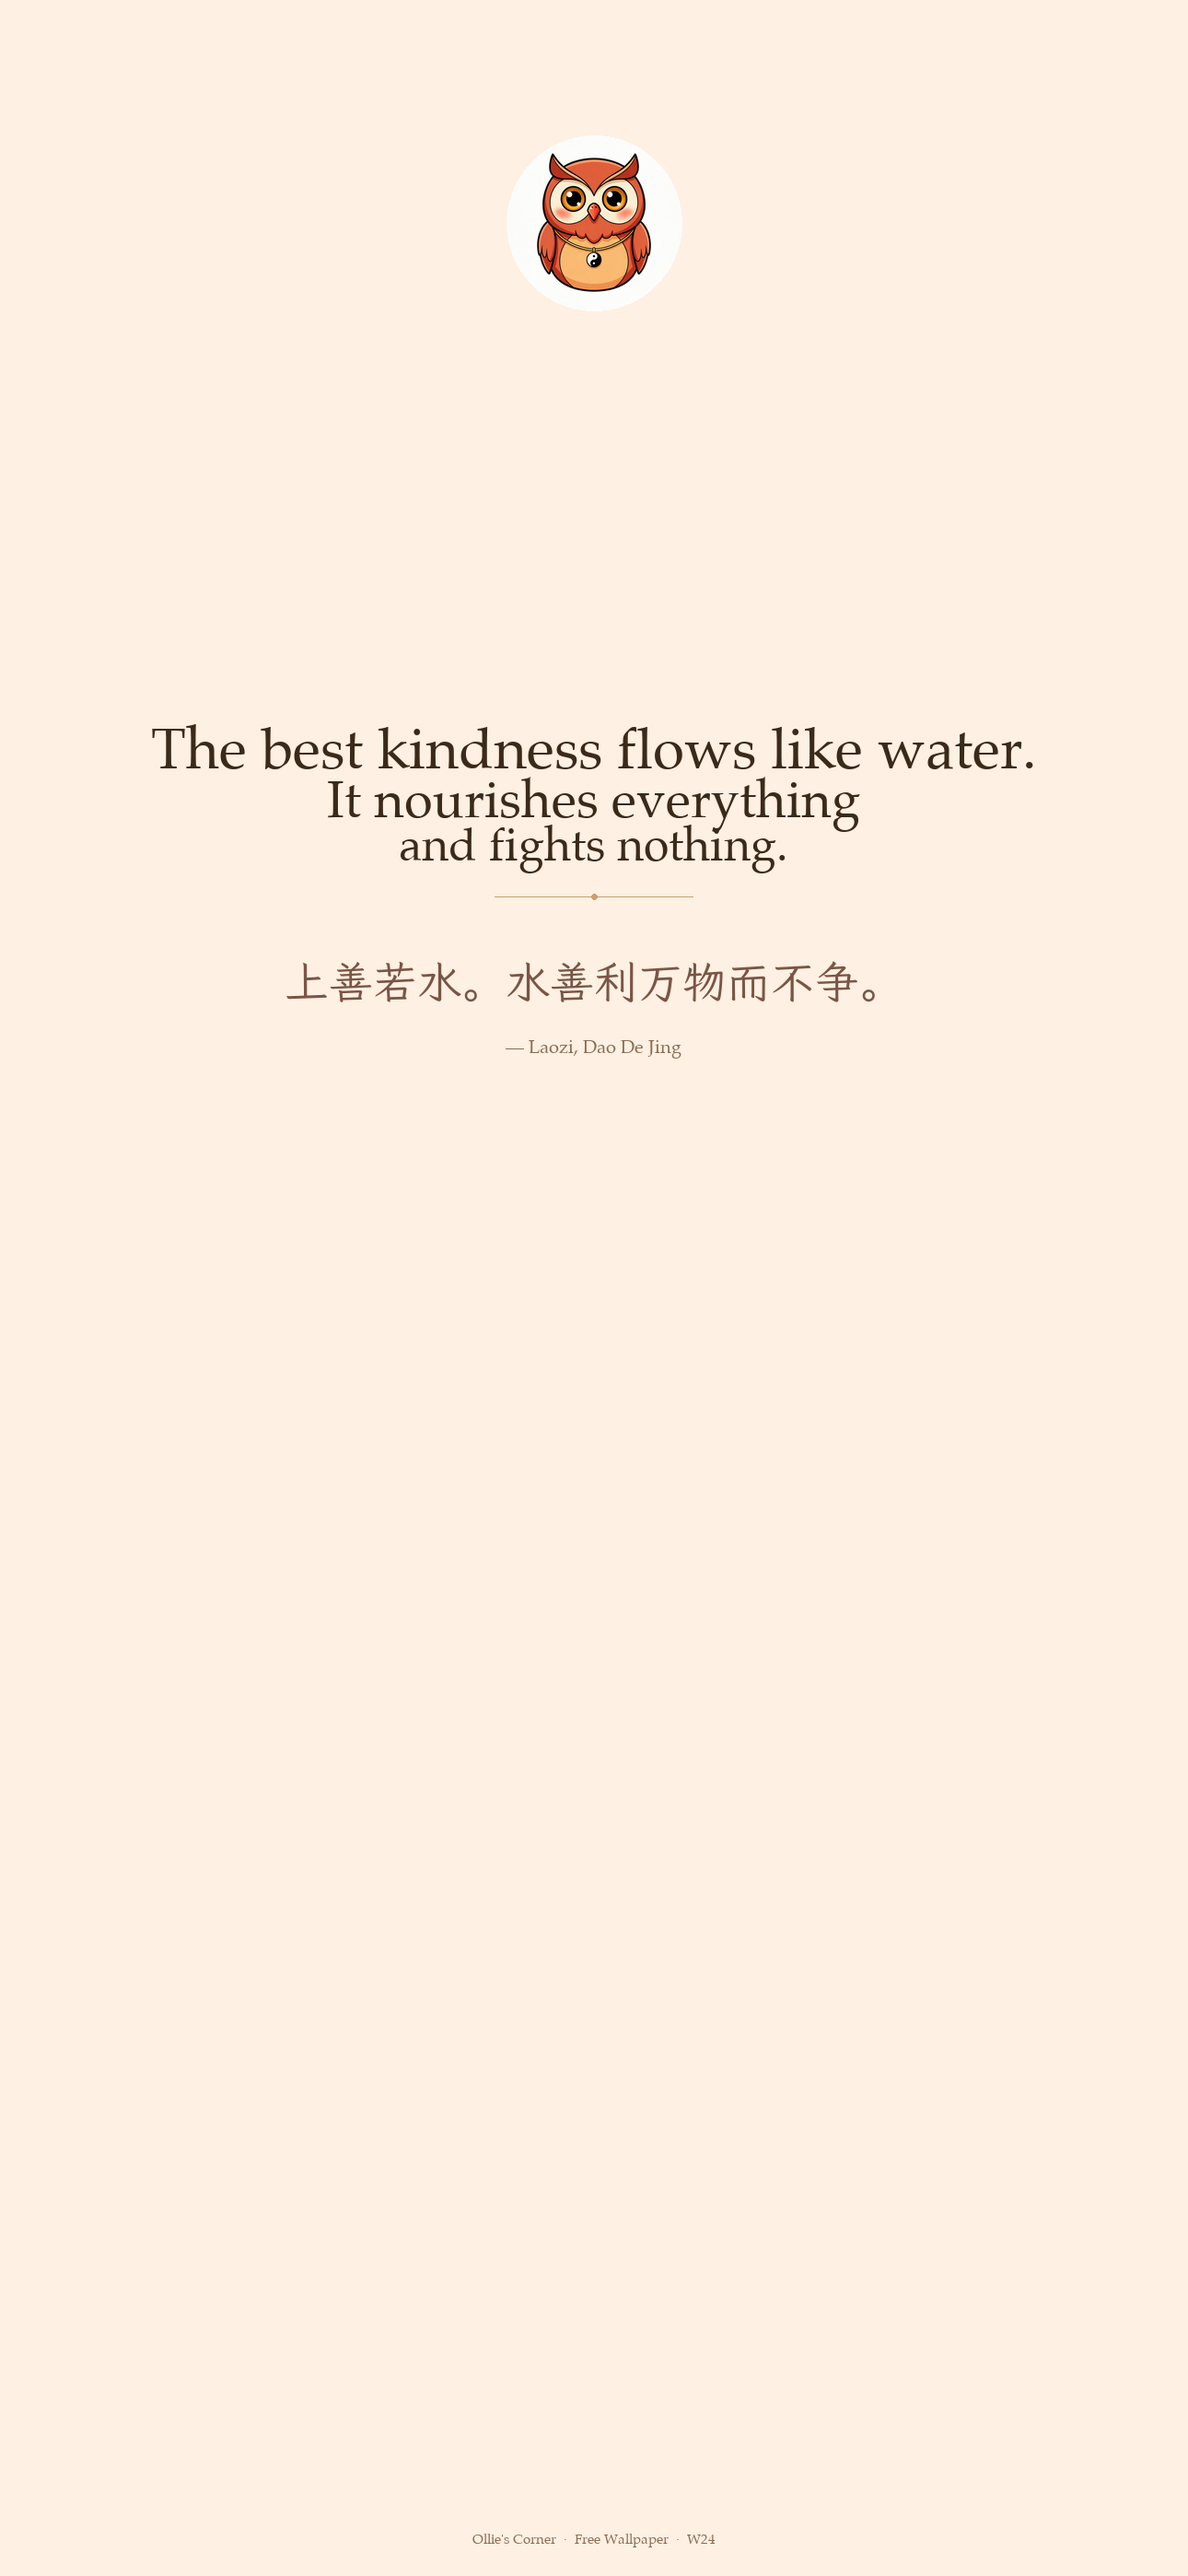
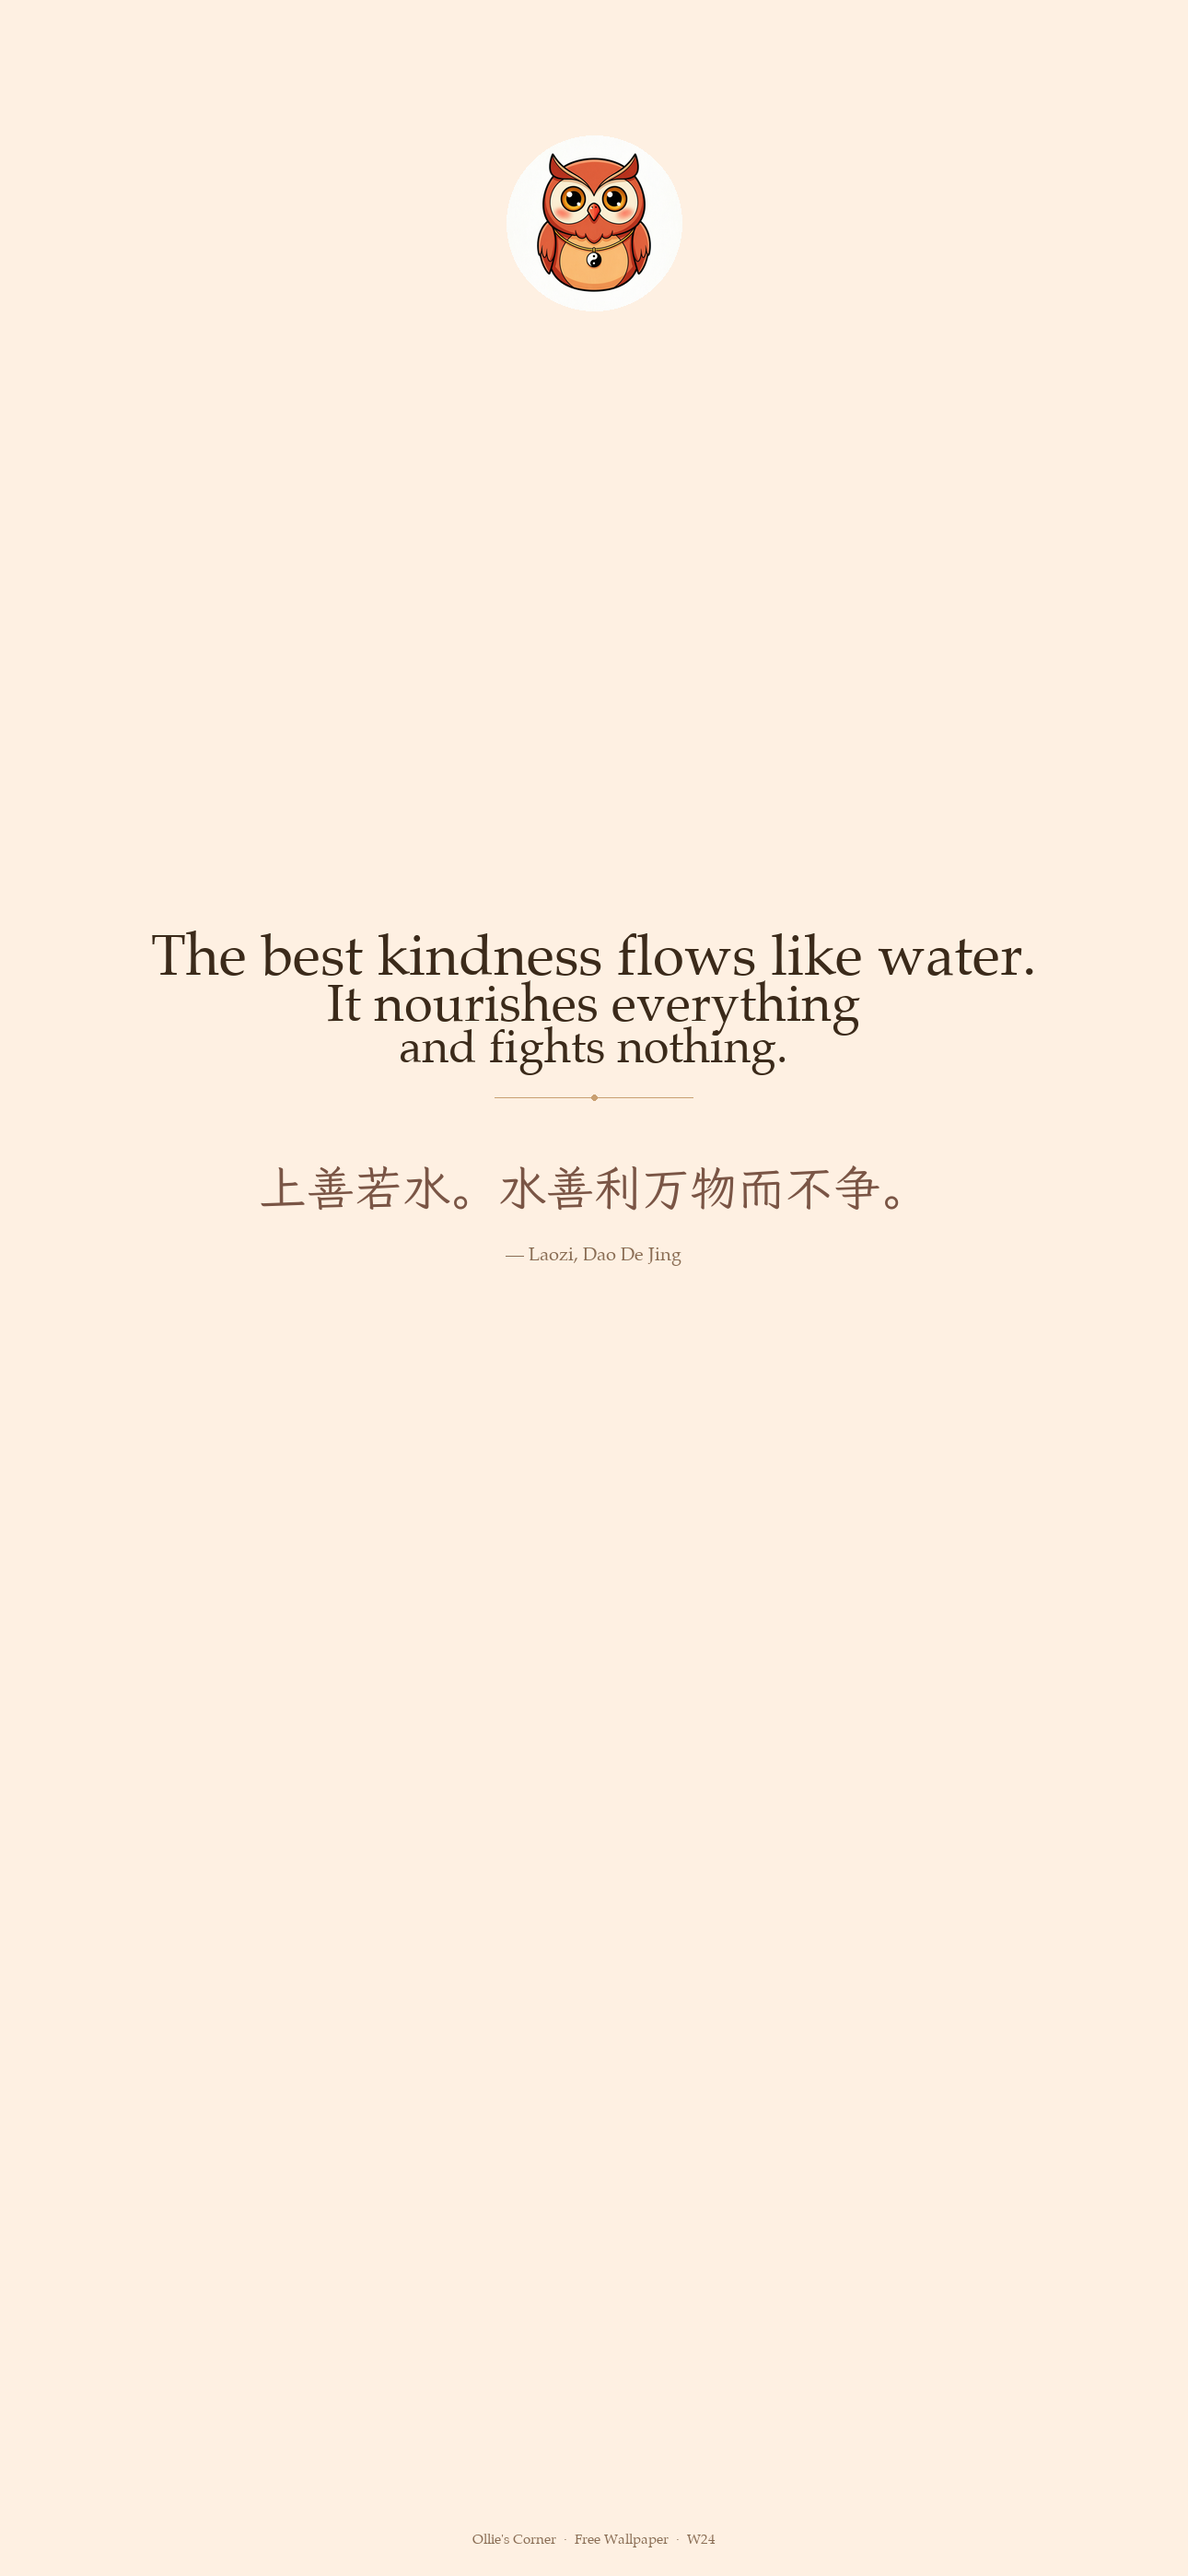
fix: move phone wallpaper text below lock screen clock (v7)
- Phone text start_y: 0.28 → 0.36 — avoids iPhone clock overlap
- Enlarged Chinese text on phone (48→52px)
- Vision analysis confirmed no black bars with 1290x2796 dimensions
- Cache bust v6 → v7

diff --git a/ollies-corner.html b/ollies-corner.html
@@ -15,7 +15,7 @@
 <meta name="description" content="Free Ollie wallpapers updated weekly, each with a classical Chinese zen quote translated for the modern mind. Bring a little warmth and wisdom to your screen.">
 <meta property="og:title" content="Ollie's Corner — Weekly Wallpapers & Zen Quotes | TCM Way">
 <meta property="og:description" content="Each week, a new wallpaper with a hand-picked zen quote from Chinese classical wisdom — translated to make you smile, breathe, and maybe learn something.">
-<meta property="og:image" content="https://tcmway.net/images/ollie-corner/wallpapers/ollie-desktop-w24.png?v=6">
+<meta property="og:image" content="https://tcmway.net/images/ollie-corner/wallpapers/ollie-desktop-w24.png?v=7">
 <meta property="og:url" content="https://tcmway.net/ollies-corner.html">
 <meta property="og:type" content="website">
 <meta property="og:site_name" content="TCM Way">
@@ -219,19 +219,19 @@
 
 <div class="wallpaper-grid">
   <div class="wallpaper-card">
-    <img src="images/ollie-corner/wallpapers/ollie-desktop-w24.png?v=6" alt="Ollie desktop wallpaper — The best kindness flows like water" loading="lazy">
+    <img src="images/ollie-corner/wallpapers/ollie-desktop-w24.png?v=7" alt="Ollie desktop wallpaper — The best kindness flows like water" loading="lazy">
     <div class="info">
       <div class="label">Desktop</div>
       <div class="dim">2560 × 1440</div>
-      <a href="images/ollie-corner/wallpapers/ollie-desktop-w24.png?v=6" download class="btn">Download</a>
+      <a href="images/ollie-corner/wallpapers/ollie-desktop-w24.png?v=7" download class="btn">Download</a>
     </div>
   </div>
   <div class="wallpaper-card">
-    <img src="images/ollie-corner/wallpapers/ollie-phone-w24.png?v=6" alt="Ollie phone wallpaper — The best kindness flows like water" loading="lazy">
+    <img src="images/ollie-corner/wallpapers/ollie-phone-w24.png?v=7" alt="Ollie phone wallpaper — The best kindness flows like water" loading="lazy">
     <div class="info">
       <div class="label">Phone</div>
       <div class="dim">1290 × 2796</div>
-      <a href="images/ollie-corner/wallpapers/ollie-phone-w24.png?v=6" download class="btn">Download</a>
+      <a href="images/ollie-corner/wallpapers/ollie-phone-w24.png?v=7" download class="btn">Download</a>
     </div>
   </div>
 </div>
